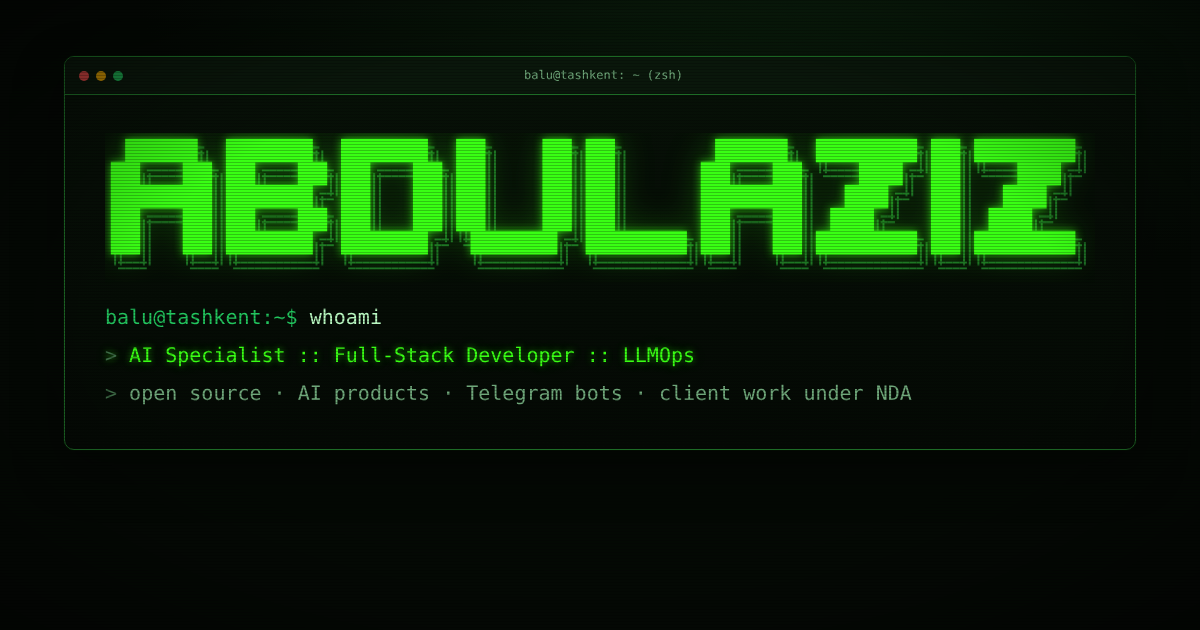
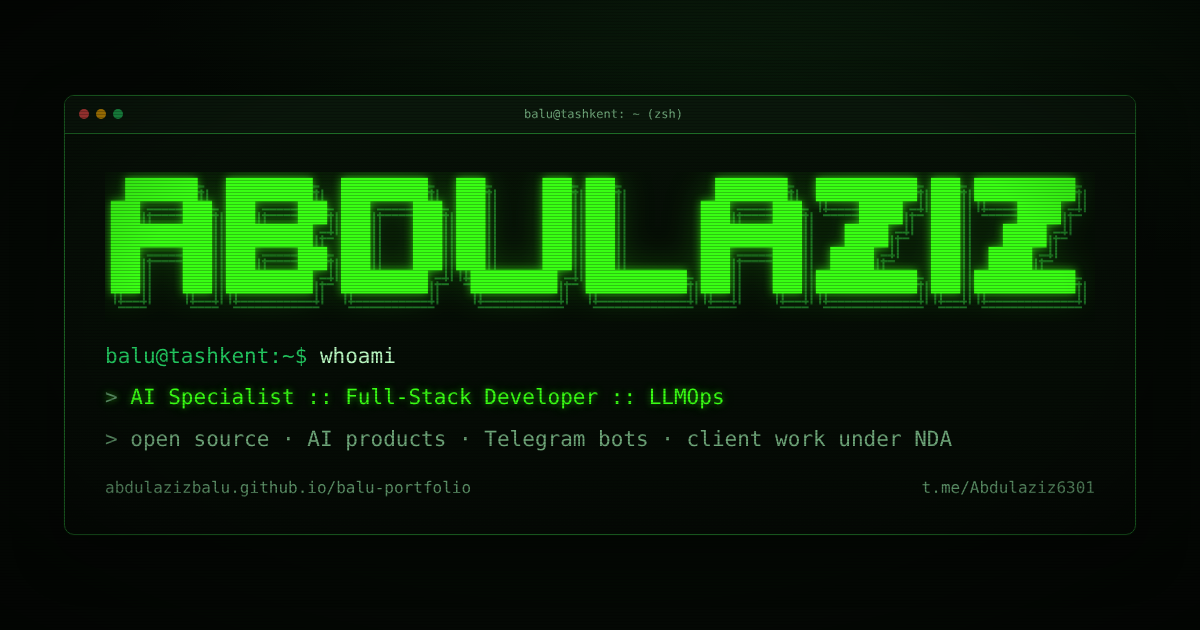
Ship career history, analytics, SEO metadata and contrast fixes

diff --git a/index.html b/index.html
@@ -19,6 +19,22 @@
     <link rel="preconnect" href="https://fonts.googleapis.com" />
     <link rel="preconnect" href="https://fonts.gstatic.com" crossorigin />
     <link href="https://fonts.googleapis.com/css2?family=JetBrains+Mono:wght@400;500;700;800&display=swap" rel="stylesheet" />
+    <link rel="canonical" href="https://abdulazizbalu.github.io/balu-portfolio/" />
+    <script type="application/ld+json">
+    {"@context": "https://schema.org", "@type": "Person", "name": "Abdulaziz Abdujalilov", "alternateName": "Balu",
+      "jobTitle": "AI Specialist and Full-Stack Developer", "url": "https://abdulazizbalu.github.io/balu-portfolio/",
+      "image": "https://abdulazizbalu.github.io/balu-portfolio/og.png",
+      "address": {"@type": "PostalAddress", "addressLocality": "Tashkent", "addressCountry": "UZ"},
+      "knowsAbout": ["AI systems", "LLMOps", "RAG", "Full-stack development", "Telegram bots", "COBOL migration testing", "Quantitative finance", "Optimization"],
+      "sameAs": ["https://github.com/abdulazizbalu", "https://www.linkedin.com/in/abdulaziz-abdujalilov-436a4a250/", "https://t.me/Abdulaziz6301"]}
+    </script>
+    <!-- Yandex.Metrika counter -->
+    <script type="text/javascript">
+      (function(m,e,t,r,i,k,a){m[i]=m[i]||function(){(m[i].a=m[i].a||[]).push(arguments)};m[i].l=1*new Date();for (var j = 0; j < document.scripts.length; j++) {if (document.scripts[j].src === r) { return; }}k=e.createElement(t),a=e.getElementsByTagName(t)[0],k.async=1,k.src=r,a.parentNode.insertBefore(k,a)})(window, document,'script','https://mc.yandex.ru/metrika/tag.js?id=113689053', 'ym');
+      ym(113689053, 'init', {ssr:true, webvisor:true, clickmap:true, ecommerce:"dataLayer", accurateTrackBounce:true, trackLinks:true});
+    </script>
+    <noscript><div><img src="https://mc.yandex.ru/watch/113689053" style="position:absolute; left:-9999px;" alt="" /></div></noscript>
+    <!-- /Yandex.Metrika counter -->
     <link rel="stylesheet" href="./style.css" />
   </head>
   <body>
@@ -31,6 +47,7 @@
         <a href="#work">./work</a>
         <a href="#nda">./clients</a>
         <a href="#services">./services</a>
+        <a href="#history">./history</a>
         <a href="#log">./log</a>
         <a href="#contact">./contact</a>
       </nav>
@@ -113,7 +130,7 @@
           <div class="win-body">
             <p class="cmd">$ cat README.md</p>
             <h3>Nur<span class="badge">desktop</span></h3>
-            <p>Local AI office assistant for Windows. Gemma 4 through Ollama: no cloud, no API keys. Russian and Uzbek UI, streaming model setup wizard.</p>
+            <p>Local AI office assistant for Windows. Gemma 4 through Ollama: no cloud, no API keys. Russian UI with tasks for Russian and Uzbek speakers.</p>
             <ul class="facts"><li>chat, email drafts, summaries, RU/UZ/EN translation</li><li>Electron 39 + React 19, 38 tests</li><li>one-click .exe installer</li></ul>
           </div>
           <div class="win-foot"><span class="lang"><b style="background:#3178c6"></b>TypeScript</span><span class="links"><a href="https://github.com/abdulazizbalu/nur" target="_blank" rel="noopener">code</a> <a href="https://github.com/abdulazizbalu/nur/releases" target="_blank" rel="noopener">download</a></span></div>
@@ -122,11 +139,11 @@
           <div class="win-bar"><i></i><i></i><i></i><span>~/telegram-tt</span></div>
           <div class="win-body">
             <p class="cmd">$ cat README.md</p>
-            <h3>Telegram Web A Lab<span class="badge">live demo</span></h3>
+            <h3>Telegram Web A Lab<span class="badge">live build</span></h3>
             <p>Six new features built inside the open-source Telegram web client, each in its own branch and upstream pull request.</p>
             <ul class="facts"><li>Remind Me, Share as Card, Chat Insights</li><li>Storage Usage, Catch Up, Chat Calendar</li><li>7 PRs opened to Ajaxy/telegram-tt</li></ul>
           </div>
-          <div class="win-foot"><span class="lang"><b style="background:#3178c6"></b>TypeScript</span><span class="links"><a href="https://telegram-tt-xi.vercel.app" target="_blank" rel="noopener">live demo</a> <a href="https://github.com/abdulazizbalu/telegram-tt/branches" target="_blank" rel="noopener">branches</a></span></div>
+          <div class="win-foot"><span class="lang"><b style="background:#3178c6"></b>TypeScript</span><span class="links"><a href="https://telegram-tt-xi.vercel.app" target="_blank" rel="noopener">live build</a> <a href="https://github.com/abdulazizbalu/telegram-tt/branches" target="_blank" rel="noopener">branches</a></span></div>
         </article>
         <article class="win card" data-cat="llmops">
           <div class="win-bar"><i></i><i></i><i></i><span>~/ai-eval-lab</span></div>
@@ -371,6 +388,14 @@
           <h2><span class="ps">$</span> cat ./process.sh</h2>
         </header>
         <ol class="process"><li><span class="step">./discover</span><p>One call, then a short written brief: who uses it, what done looks like, what can break.</p></li><li><span class="step">./spec</span><p>A protocol before code: data, rules, acceptance criteria and test cases agreed up front.</p></li><li><span class="step">./build</span><p>I direct AI coding agents and review every diff. Fast iterations, small PRs, nothing unreviewed.</p></li><li><span class="step">./verify</span><p>Tests, evals and a reference to compare against. Results are reproducible.</p></li><li><span class="step">./ship</span><p>Deploy on Vercel or Railway, add monitoring, hand over docs and a runbook.</p></li></ol>
+      </section>
+
+      <section id="history" class="section">
+        <header class="sec-head">
+          <p class="eyebrow">// career, employers anonymised</p>
+          <h2><span class="ps">$</span> cat ~/.history</h2>
+        </header>
+        <ol class="history"><li><span class="when">2026 → now</span><div><p class="role">Full-stack developer · legal and consulting firm</p><p class="what">AI document checks, Telegram bots and Mini Apps, internal tools, LLM integrations and RAG.</p></div></li><li><span class="when">now</span><div><p class="role">AI tools and content · HR-tech reference platform</p><p class="what">Labor-law calculators, interactive checklists and flowcharts, a document constructor, AI video production.</p></div></li><li><span class="when">2026</span><div><p class="role">Remote contract · client software</p><p class="what">Two-month remote engagement building client-side software.</p></div></li><li><span class="when">2023 → 2026</span><div><p class="role">Independent YouTube creator</p><p class="what">Ran several channels end to end, from scripts and editing to thumbnails, analytics and monetization.</p></div></li><li><span class="when">2022 → 2024</span><div><p class="role">Full-stack developer · professional reference publisher</p><p class="what">A multilingual vacation-day calculator for HR (RU/UZ) and a Telegram bot that routes documents and chases deadlines.</p></div></li><li><span class="when">2021 → 2023</span><div><p class="role">Technical editor · same publisher</p><p class="what">Technical editing for professional reference systems in business, HR and finance.</p></div></li></ol>
       </section>
 
       <section id="log" class="section">

diff --git a/script.js b/script.js
@@ -44,6 +44,7 @@
       ["open <name> open a repo, e.g. open cobol-equiv"],
       ["clients     work under NDA"],
       ["services    what you can hire me for"],
+      ["history     career"],
       ["log         recent history"],
       ["contact     how to reach me"],
       ["clear       clear the screen"],
@@ -56,8 +57,10 @@
     log: () => { go("log"); return [["git log --since=2026-06 opened below"]]; },
     contact: () => [["telegram  @Abdulaziz6301", "hi"], ["mail      abdushkin2001@gmail.com"], ["github    github.com/abdulazizbalu"]],
     hire: () => COMMANDS["sudo"](["hire-me"]),
+    history: () => { go("history"); return [["2021 editor → 2022 full-stack → 2023 YouTube → 2026 AI + full-stack"]]; },
     sudo: (args) => {
       if ((args[0] || "") === "hire-me") {
+        if (typeof window.ym === "function") window.ym(113689053, "reachGoal", "sudo_hire_me");
         setTimeout(() => window.open("https://t.me/Abdulaziz6301", "_blank", "noopener"), 700);
         return [["[sudo] permission granted. opening telegram...", "hi"]];
       }
@@ -131,6 +134,15 @@
     }, 6500);
   }
 
+  // analytics goals: telegram and email clicks
+  document.addEventListener("click", (ev) => {
+    const link = ev.target.closest && ev.target.closest("a[href]");
+    if (!link || typeof window.ym !== "function") return;
+    if (link.href.includes("t.me/")) window.ym(113689053, "reachGoal", "telegram_click");
+    else if (link.href.startsWith("mailto:")) window.ym(113689053, "reachGoal", "email_click");
+    else if (link.href.includes("github.com/abdulazizbalu/")) window.ym(113689053, "reachGoal", "repo_click");
+  });
+
   // project filters
   const chips = document.querySelectorAll(".chip");
   chips.forEach((chip) => chip.addEventListener("click", () => {
@@ -143,7 +155,7 @@
 
   // reveal on scroll
   if (!reduce && "IntersectionObserver" in window) {
-    const els = document.querySelectorAll(".card, .case, .svc, .process li, .log-month, .upstream li, .format, .contact .win");
+    const els = document.querySelectorAll(".card, .case, .svc, .process li, .log-month, .upstream li, .history li, .format, .contact .win");
     const io = new IntersectionObserver((entries) => {
       entries.forEach((en) => { if (en.isIntersecting) { en.target.classList.add("in"); io.unobserve(en.target); } });
     }, { rootMargin: "0px 0px -8% 0px" });

diff --git a/style.css b/style.css
@@ -9,7 +9,7 @@
   --green2: #22c55e;
   --text: #b8f7c0;
   --muted: #6fa77a;
-  --dim: #3f6e48;
+  --dim: #5b8f66;
   --amber: #ffb000;
   --red: #ff4d4d;
   --font: "JetBrains Mono", "Cascadia Code", Consolas, Menlo, monospace;
@@ -274,3 +274,12 @@ h1 em { font-style: normal; color: var(--green); text-shadow: var(--glow); }
   *, *::before, *::after { animation: none !important; transition: none !important; }
   .reveal { opacity: 1; transform: none; }
 }
+
+/* history */
+.history { list-style: none; margin: 0; padding: 0; display: grid; gap: 1px; background: var(--line); border: 1px solid var(--line); border-radius: var(--radius); overflow: hidden; }
+.history li { display: grid; grid-template-columns: 150px 1fr; gap: 18px; background: var(--bg); padding: 16px 20px; }
+.history li:hover { background: var(--bg2); }
+.history .when { color: var(--amber); font-weight: 700; font-size: 14px; }
+.history .role { color: var(--green); font-weight: 700; margin: 0; }
+.history .what { color: var(--muted); font-size: 14px; margin: 4px 0 0; }
+@media (max-width: 640px) { .history li { grid-template-columns: 1fr; gap: 4px; } }
